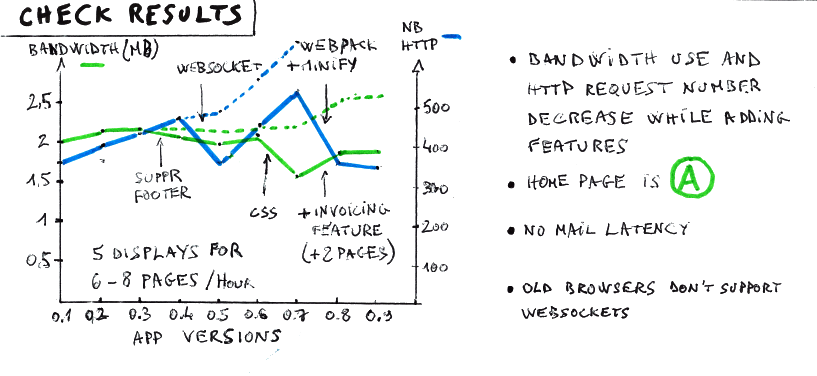
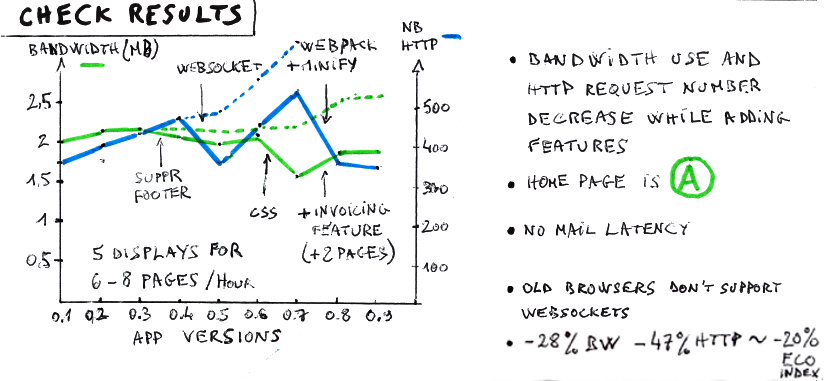
ajout modèle ecoindex + amélioration écoindex dans les résultats

diff --git a/index.html b/index.html
@@ -171,6 +171,13 @@
 
         <section>
           <div class="wrap">
+            <h1>Ecoindex model</h1>
+            <img src="static/images/ecoindex.png"/>
+          </div>
+        </section>
+
+        <section>
+          <div class="wrap">
             <div class="card-70">
               <figure>
                 <img src="static/images/ascenseur_polling.gif">
